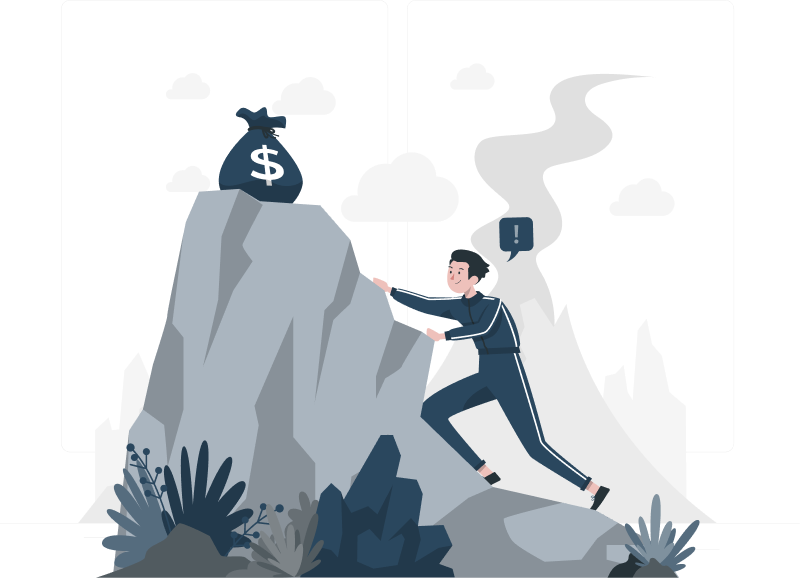
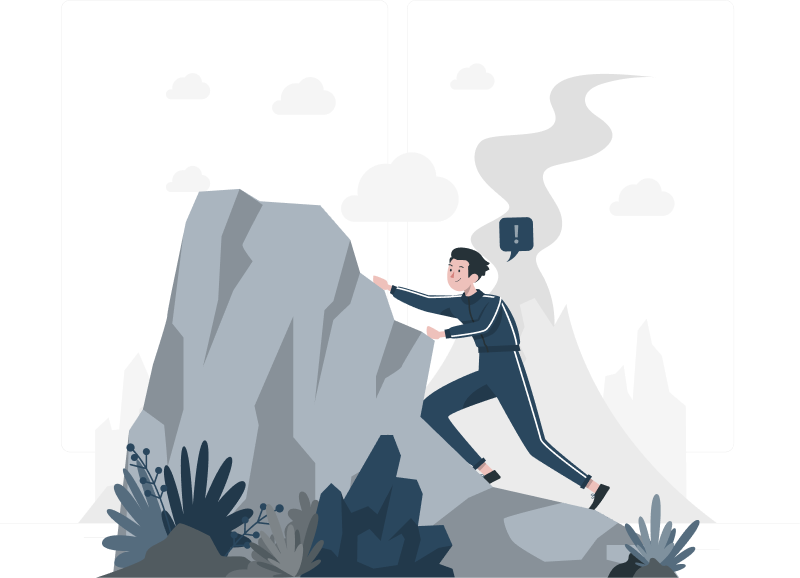
Add image/assets for all of Landing Page

diff --git a/src/screens/LandingPage/LandingPage1/LandingPage.tsx b/src/screens/LandingPage/LandingPage1/LandingPage.tsx
@@ -7,6 +7,7 @@ import {
   SignupScreenProps,
 } from 'src/navigation/NavigationTypes';
 import Icon from 'react-native-vector-icons/Ionicons'; // Đảm bảo đã cài đặt thư viện này
+import {MaterialIcons} from '@expo/vector-icons';
 
 type CombinedScreenProps = SignupScreenProps &
   LandingPage2ScreenProps &
@@ -17,39 +18,55 @@ const LandingPage = ({navigation}: CombinedScreenProps) => {
     navigation.navigate('HomeTab', {screen: 'HomeScreen'});
   };
   return (
-    <SafeAreaView style={styles.container}>
-      <View style={styles.hero}>
-        <Image
-          source={{uri: 'https://assets.withfra.me/Landing.3.png'}}
-          style={styles.heroImage}
-          resizeMode="contain"
-        />
-      </View>
-      <View style={styles.content}>
-        <View style={styles.contentHeader}>
-          <Text style={styles.title}>
-            Plan your day{'\n'}with{' '}
-            <View style={styles.appName}>
-              <Text style={styles.appNameText}>Fam Fund</Text>
-            </View>
-          </Text>
-          <Text style={styles.text}>
-            Fostering Strong Family Connections: Connect, Organize, Share, and
-            Treasure Every Moment Together.
-          </Text>
-        </View>
+    // <SafeAreaView style={styles.container}>
+    //   <View style={styles.hero}>
+    //     <Image
+    //       source={{uri: 'https://assets.withfra.me/Landing.3.png'}}
+    //       style={styles.heroImage}
+    //       resizeMode="contain"
+    //     />
+    //   </View>
+    //   <View style={styles.content}>
+    //     <View style={styles.contentHeader}>
+    //       <Text style={styles.title}>
+    //         Plan your day{'\n'}with{' '}
+    //         <View style={styles.appName}>
+    //           <Text style={styles.appNameText}>Fam Fund</Text>
+    //         </View>
+    //       </Text>
+    //       <Text style={styles.text}>
+    //         Fostering Strong Family Connections: Connect, Organize, Share, and
+    //         Treasure Every Moment Together.
+    //       </Text>
+    //     </View>
 
-        <TouchableOpacity onPress={handleGoButtonPress}>
-          <View style={[styles.button, {flexDirection: 'row'}]}>
-            <Text style={[styles.buttonText, {left: 15}]}>Let's go</Text>
-            <Icon
-              name="arrow-forward"
-              size={24}
-              color="#fff"
-              style={styles.icon}
-            />
-          </View>
+    //     <TouchableOpacity onPress={handleGoButtonPress}>
+    //       <View style={[styles.button, {flexDirection: 'row'}]}>
+    //         <Text style={[styles.buttonText, {left: 15}]}>Let's go</Text>
+    //         <Icon
+    //           name="arrow-forward"
+    //           size={24}
+    //           color="#fff"
+    //           style={styles.icon}
+    //         />
+    //       </View>
+    //     </TouchableOpacity>
+    //   </View>
+    // </SafeAreaView>
+    <SafeAreaView style={styles.container}>
+      <View style={{padding: 10}}>
+        <TouchableOpacity onPress={() => navigation.goBack()}>
+          <MaterialIcons
+            name="chevron-left"
+            size={55}
+            style={styles.backButton}
+          />
         </TouchableOpacity>
+        <Image
+          source={require('src/assets/images/landing-page-1.png')}
+          resizeMode="stretch"
+          style={{width: '100%', height: 220, alignSelf: 'center'}}
+        />
       </View>
     </SafeAreaView>
   );

diff --git a/src/screens/LandingPage/LandingPage1/styles.ts b/src/screens/LandingPage/LandingPage1/styles.ts
@@ -7,6 +7,7 @@ const styles = StyleSheet.create({
   container: {
     backgroundColor: COLORS.white,
     flex: 1,
+    
   },
   title: {
     fontSize: screenHeight * 0.03,
@@ -73,7 +74,9 @@ const styles = StyleSheet.create({
     fontWeight: '500',
     color: COLORS.white,
   },
-  icon: {left: screenWidth * 0.3},
+  icon: { left: screenWidth * 0.3 },
+
+  backButton:{color: COLORS.Rhino,},
 });
 
 export default styles;
